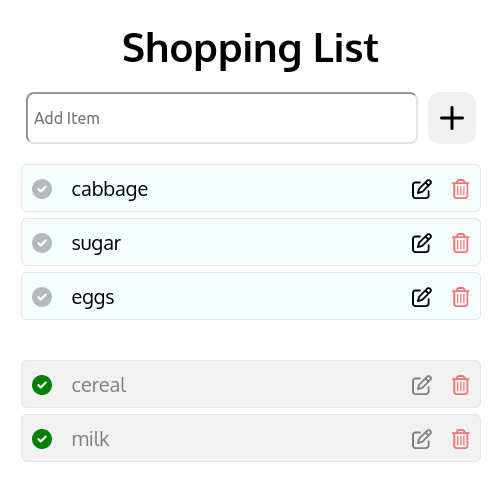
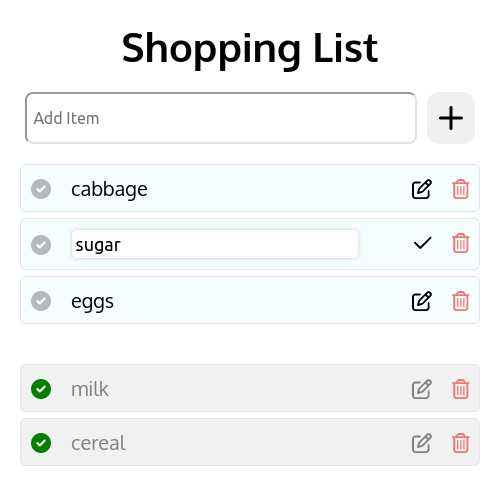
update README

diff --git a/README.md b/README.md
@@ -22,13 +22,13 @@ I'll look at replacing this with a free solution when the app is completed.**
 - Delete an existing List Item
 - Toggle an item as done. If toggled, it is moved to a different list below. If
   toggled again, it is moved back to the main list.
+- Edit an item name inline.
 
 ## Functionality Planned
 
 - disallow duplicate items
 - Allow quantity. If blank just add 1. Optionally select 'type' of quantity (ie
   pack, box, pallet etc).
-- Edit an item.
 - Add comment to an item.
 - add item to category - ie Fresh, Frozen, Bakery etc.
 - Drag and drop ordering.
